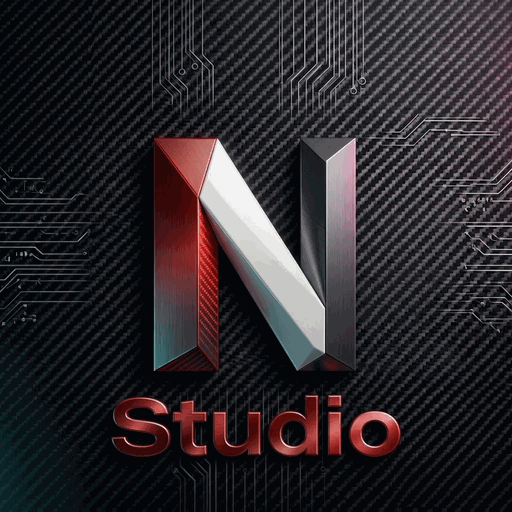
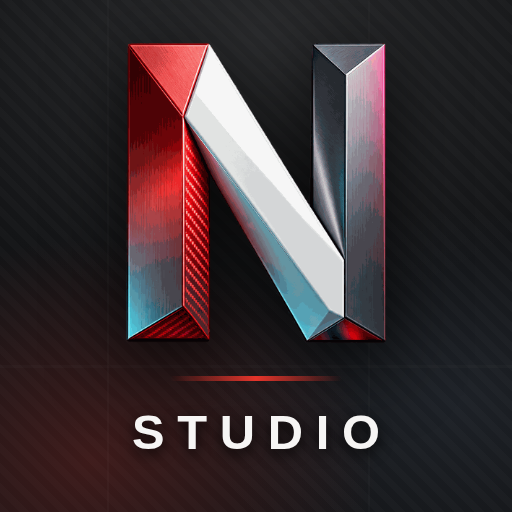
Yeni uygulama simgesi (v0.16.3)
N yukarı alındı ve büyütüldü, Studio yazısı beyaza çevrilip Archivo ile
yazıldı; arasına sönen kırmızı çizgi kondu. iOS için 180 piksellik ayrı
simge eklendi.

diff --git a/index.html b/index.html
@@ -15,7 +15,8 @@
 <title>NIZAM | Studio</title>
 
 <link rel="manifest" href="manifest.webmanifest">
-<link rel="apple-touch-icon" href="icon-192.png">
+<!-- iOS ana ekran simgesi 180 piksel ister; 192 gelince yeniden ölçeklerdi. -->
+<link rel="apple-touch-icon" sizes="180x180" href="icon-180.png">
 <link rel="icon" type="image/png" href="icon-192.png">
 <meta name="apple-mobile-web-app-capable" content="yes">
 <!-- black-translucent, sayfayı ekranın TEPESİNE yapıştırıp altta 59 piksel
@@ -24,7 +25,7 @@
 <meta name="apple-mobile-web-app-status-bar-style" content="black">
 <meta name="apple-mobile-web-app-title" content="NIZAM Studio">
 
-<link rel="stylesheet" href="style.css?v=0.16.2">
+<link rel="stylesheet" href="style.css?v=0.16.3">
 </head>
 <body>
 
@@ -146,11 +147,11 @@
 <div id="toast" class="hidden"></div>
 
 <script src="vendor/supabase.js?v=2.112.3"></script>
-<script src="config.js?v=0.16.2"></script>
-<script src="auth.js?v=0.16.2"></script>
-<script src="data.js?v=0.16.2"></script>
-<script src="guncelle.js?v=0.16.2"></script>
-<script src="prompt.js?v=0.16.2"></script>
-<script src="app.js?v=0.16.2"></script>
+<script src="config.js?v=0.16.3"></script>
+<script src="auth.js?v=0.16.3"></script>
+<script src="data.js?v=0.16.3"></script>
+<script src="guncelle.js?v=0.16.3"></script>
+<script src="prompt.js?v=0.16.3"></script>
+<script src="app.js?v=0.16.3"></script>
 </body>
 </html>

diff --git a/sw.js b/sw.js
@@ -2,11 +2,11 @@
    Ağ öncelikli: geliştirme sırasında eski dosya takılıp kalmaz.
    Ağ yoksa önbellekten döner. */
 
-const CACHE = 'nizam-studio-v0.16.2';
+const CACHE = 'nizam-studio-v0.16.3';
 const SHELL = [
   './', './index.html', './style.css', './app.js', './config.js', './auth.js', './data.js', './prompt.js', './guncelle.js',
   './vendor/supabase.js',
-  './manifest.webmanifest', './icon-192.png', './icon-512.png',
+  './manifest.webmanifest', './icon-192.png', './icon-512.png', './icon-180.png',
   './logo-n.png', './logo-full.png',
   './font/grotesk-600.woff2', './font/grotesk-700.woff2'
 ];

diff --git a/config.js b/config.js
@@ -7,7 +7,7 @@ const APP = {
   name:     'NIZAM | Studio',
   short:    'NIZAM Studio',
   owner:    'Nizam Soft',
-  version: 'v0.16.2',
+  version: 'v0.16.3',
   build:    '2026-08-20',
   stage: 'Adım 4 · Proje yolu',
 };

diff --git a/CHANGELOG.md b/CHANGELOG.md
@@ -1,5 +1,16 @@
 # Değişiklik Günlüğü
 
+## v0.16.3 — 21 Ağustos 2026
+**Yeni uygulama simgesi**
+
+- **N yukarı çekildi ve büyütüldü** — simgenin yarısından fazlasını kaplıyor
+- "Studio" kırmızıydı ve zemindeki kırmızı parıltının içinde eriyordu.
+  Artık **beyaz**, Archivo 700, harf araları açık — küçük boyutta da okunuyor
+- N ile yazı arasında iki ucu sönen ince kırmızı çizgi
+- Zemin aynı karbon dokusu; ışıklar N'nin yeni yerine göre kaydırıldı
+- **icon-180.png** eklendi: iOS ana ekran simgesi 180 piksel ister,
+  192 verilince yeniden ölçekleyip yumuşatıyordu
+
 ## v0.16.2 — 21 Ağustos 2026
 **Proje durakları açılıp kapanıyor**
 
